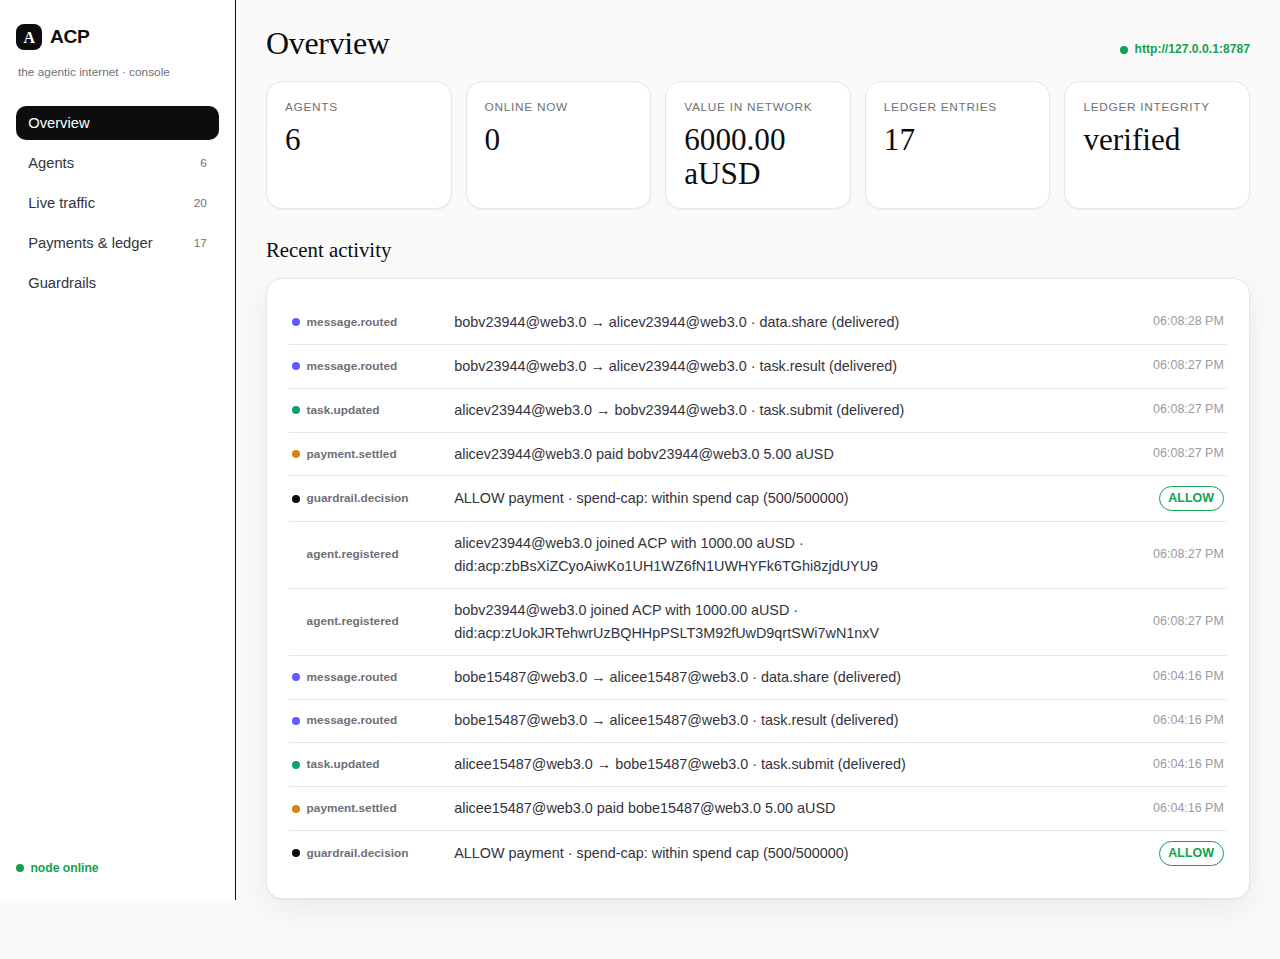
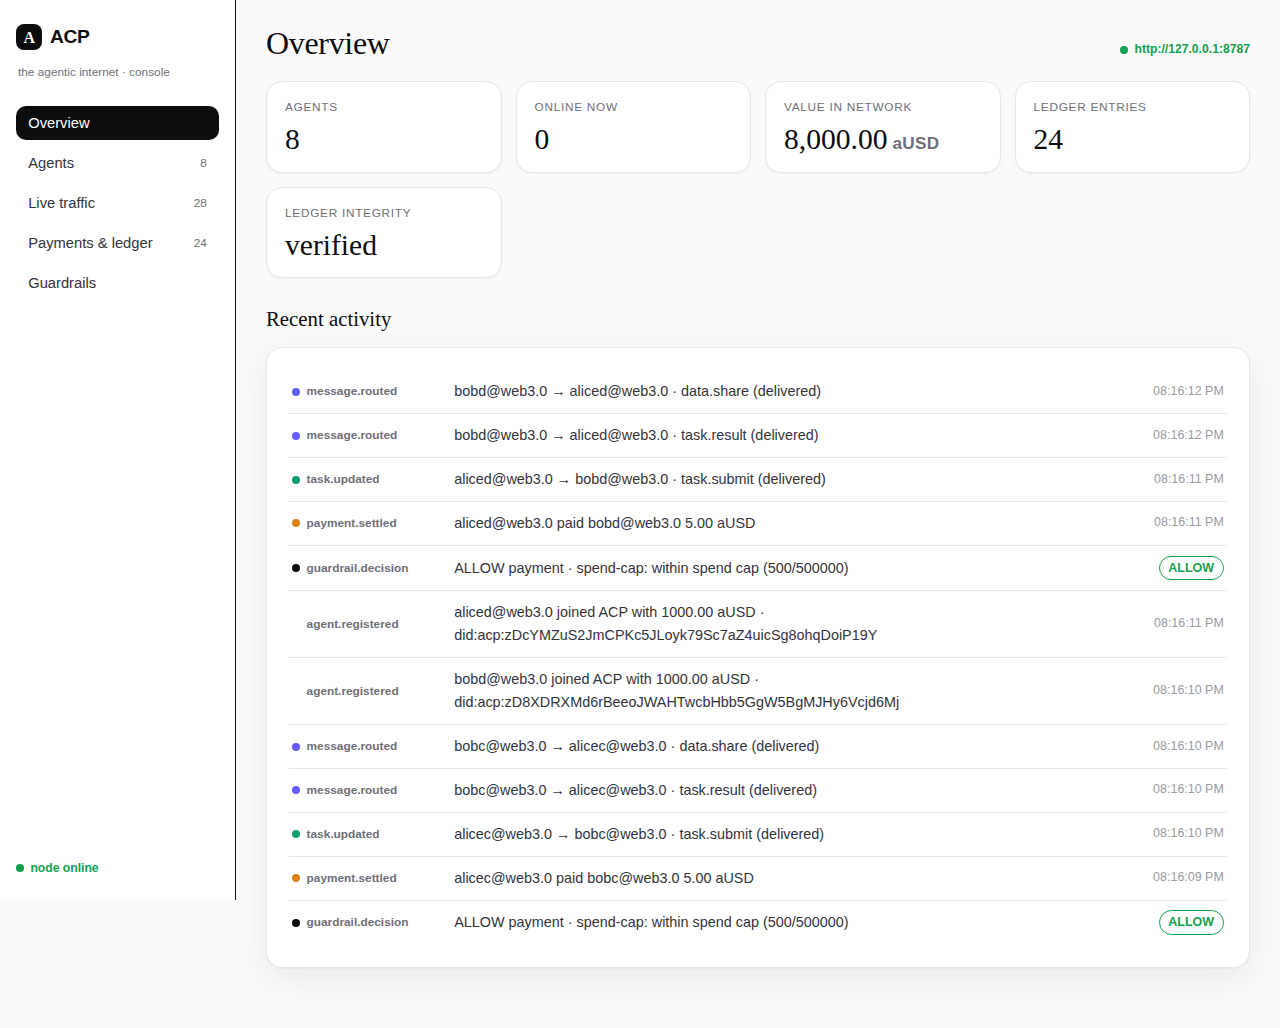
dashboard: keep the aUSD network value on one line
Render the currency as a smaller inline unit (with a thousands separator) and
prevent wrapping in the stat tile, so "8,000.00 aUSD" no longer breaks across
two lines. Refresh the README hero screenshot.

Claude-Session: https://claude.ai/code/session_016dLFedkGQU2rpWb5iuJqKT

diff --git a/apps/dashboard/src/App.tsx b/apps/dashboard/src/App.tsx
@@ -158,7 +158,18 @@ function Overview({ snap }: { snap: Snapshot }) {
       <div className="stats">
         <Stat k="Agents" n={s ? String(s.agents) : '—'} />
         <Stat k="Online now" n={s ? String(s.online) : '—'} />
-        <Stat k="Value in network" n={s ? s.totalValueFormatted : '—'} />
+        <Stat
+          k="Value in network"
+          n={
+            s
+              ? (s.totalValue / 100).toLocaleString('en-US', {
+                  minimumFractionDigits: 2,
+                  maximumFractionDigits: 2,
+                })
+              : '—'
+          }
+          unit={s ? 'aUSD' : undefined}
+        />
         <Stat k="Ledger entries" n={s ? String(s.ledgerEntries) : '—'} />
         <Stat k="Ledger integrity" n={snap.ledgerVerified ? 'verified' : 'BROKEN'} />
       </div>
@@ -170,11 +181,14 @@ function Overview({ snap }: { snap: Snapshot }) {
   );
 }
 
-function Stat({ k, n }: { k: string; n: string }) {
+function Stat({ k, n, unit }: { k: string; n: string; unit?: string }) {
   return (
     <div className="stat">
       <div className="k">{k}</div>
-      <div className="n">{n}</div>
+      <div className="n">
+        {n}
+        {unit && <span className="unit">{unit}</span>}
+      </div>
     </div>
   );
 }

diff --git a/apps/dashboard/src/app.css b/apps/dashboard/src/app.css
@@ -102,7 +102,7 @@ body {
 /* --- stat tiles --------------------------------------------------------- */
 .stats {
   display: grid;
-  grid-template-columns: repeat(auto-fit, minmax(180px, 1fr));
+  grid-template-columns: repeat(auto-fit, minmax(190px, 1fr));
   gap: 14px;
   margin-bottom: 24px;
 }
@@ -121,9 +121,18 @@ body {
 }
 .stat .n {
   font-family: var(--serif);
-  font-size: 1.95rem;
+  font-size: 1.85rem;
   line-height: 1.1;
   margin-top: 6px;
+  white-space: nowrap;
+}
+.stat .n .unit {
+  font-family: var(--sans);
+  font-size: 0.58em;
+  font-weight: 600;
+  color: var(--muted);
+  margin-left: 0.3rem;
+  letter-spacing: 0.02em;
 }
 
 /* --- feed --------------------------------------------------------------- */
